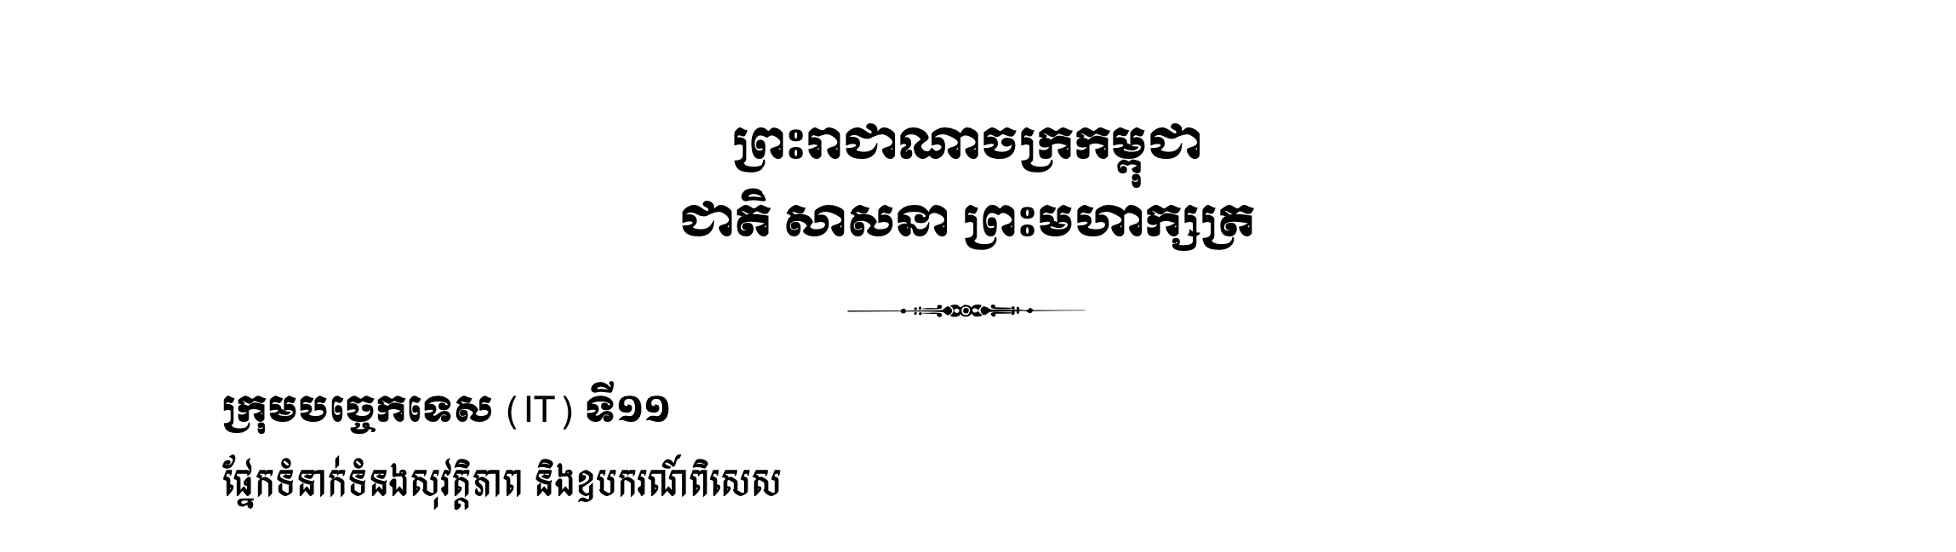
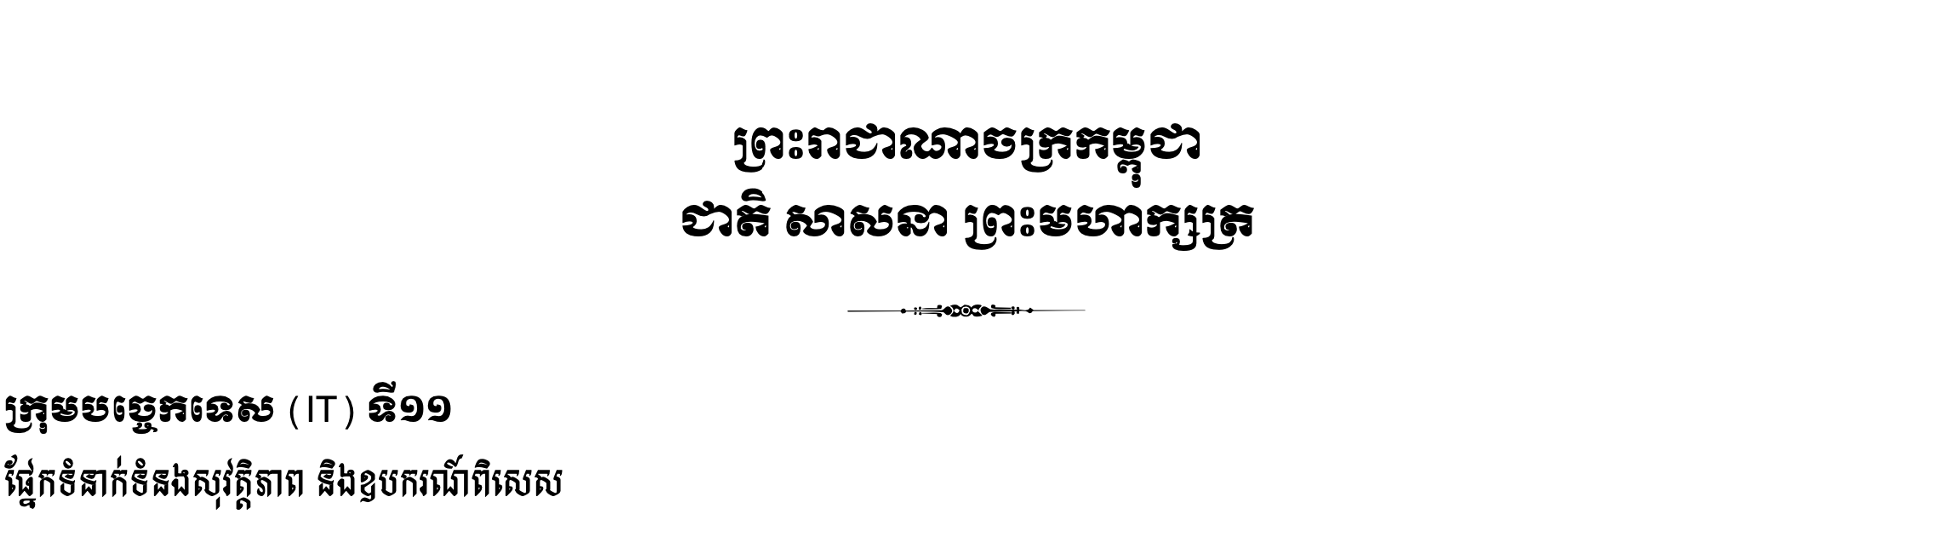
re-design letterhead

Changed region(s): [[0.0, 0.8315, 0.4054, 0.9239], [0.0, 0.6775, 0.343, 0.8007]]

diff --git a/resources/views/admin/formpdf/stockout.blade.php b/resources/views/admin/formpdf/stockout.blade.php
@@ -5,8 +5,8 @@
 
 @section('content')
     <div class="container" style="padding: 0 20px">
-        <div class="row" style="margin-bottom: 20px">
-            <img src="{{ asset('/image/leterhead/head.png') }}" alt="" width="100%">
+        <div class="row" style="margin-bottom: 20px; padding:0 20px;">
+            <img src="{{asset('/image/leterhead/head.png')}}" alt="" style="width: 100%; height: auto;">
         </div>
         <h5 class="battambang text-center mb-3" style="font-weight: bold;">លិខិតប្រគល់វិទ្យុទាក់ទង</h5>
         <h6 class="battambang text-center mb-5">({{$stockOut->type}})</h6>
@@ -24,7 +24,7 @@
             <tbody>
                 @foreach ($stockOut->products as $key => $item)
                     <tr>
-                        <td class="text-center">{{ $key + 1 }}</td>
+                        <td class="text-center">{{ sprintf('%02d', $key + 1) }}</td>
                         <td>{{ $item->product->PID }}</td>
                         <td>{{ $item->product->model->name }}</td>
                         <td>{{ $item->product->model->type }}</td>
@@ -50,7 +50,7 @@
                 <tbody>
                     @foreach ($stockOut->stockOutDetails as $key => $item)
                         <tr>
-                            <td class="text-center">{{ $key + 1 }}</td>
+                            <td class="text-center">{{ sprintf('%02d', $key + 1) }}</td>
                             <td>{{ $item->product->name }}</td>
                             <td>{{ $item->product->type }}</td>
                             <td>{{ $item->quantity }}</td>
@@ -61,20 +61,20 @@
             </table>
         @endif
 
-        <div class="row" style="margin: 50px 0 5px">
+        {{-- <div class="row" style="margin: 50px 0 5px">
             <div class="col-sm-12">
                 <p class="battambang text-right
             ">ធ្វើនៅ ក្រុងតាខ្មៅ ថ្ងៃ<span
                         style="padding-right: 150px"></span>ខែ<span style="padding-right: 90px"></span>ឆ្នាំ<span
                         style="padding-right: 80px"></span>ពស ២៥៦__</p>
             </div>
-        </div>
+        </div> --}}
 
-        <div class="row" style="margin: 0 0 50px">
+        <div class="row" style="margin: 50px 0 50px">
 
             <div class="col-sm-12">
                 <p class="battambang text-right
-            ">ត្រូវនឹងថ្ងៃទី<span
+            ">ក្រុងតាខ្មៅ ថ្ងៃទី<span
                         style="padding-right: 100px"></span>ខែ<span style="padding-right: 80px"></span>ឆ្នាំ២០២__</p>
             </div>
         </div>

diff --git a/resources/views/admin/formpdf/borrow.blade.php b/resources/views/admin/formpdf/borrow.blade.php
@@ -4,9 +4,9 @@
 @endsection
 
 @section('content')
-    <div class="container" style="padding: 0 20px">
-        <div class="row" style="margin-bottom: 20px">
-            <img src="{{asset('/image/leterhead/head.png')}}" alt="" width="100%">
+    <div class="container">
+        <div class="row" style="margin-bottom: 20px; padding:0 20px;">
+            <img src="{{asset('/image/leterhead/head.png')}}" alt="" style="width: 100%; height: auto;">
         </div>
         <h5 class="battambang text-center my-5" style="font-weight: bold;">លិខិតខ្ចីវិទ្យុទាក់ទង</h5>
 
@@ -23,7 +23,7 @@
             <tbody>
                 @foreach ($borrow->details as $key => $item)
                     <tr>
-                        <td class="text-center">{{ $key + 1 }}</td>
+                        <td class="text-center">{{ sprintf('%02d', $key + 1) }}</td>
                         <td>{{ $item->product->PID }}</td>
                         <td>{{ $item->product->model->name }}</td>
                         <td>{{ $item->product->model->type }}</td>
@@ -48,7 +48,7 @@
                 <tbody>
                     @foreach ($borrow->accessory as $key => $item)
                         <tr>
-                            <td class="text-center">{{ $key + 1 }}</td>
+                            <td class="text-center">{{ sprintf('%02d', $key + 1) }}</td>
                             <td>{{ $item->model->name }}</td>
                             <td>{{ $item->model->type }}</td>
                             <td>{{ $item->quantity }}</td>
@@ -59,20 +59,20 @@
             </table>
         @endif
 
-        <div class="row" style="margin: 50px 0 5px">
+        {{-- <div class="row" style="margin: 50px 0 5px">
             <div class="col-sm-12">
                 <p class="battambang text-right
             ">ធ្វើនៅ ក្រុងតាខ្មៅ ថ្ងៃ<span
                         style="padding-right: 150px"></span>ខែ<span style="padding-right: 90px"></span>ឆ្នាំ<span
                         style="padding-right: 80px"></span>ពស ២៥៦__</p>
             </div>
-        </div>
+        </div> --}}
 
-        <div class="row" style="margin: 0 0 50px">
+        <div class="row" style="margin: 50px 0 50px">
 
             <div class="col-sm-12">
                 <p class="battambang text-right
-            ">ត្រូវនឹងថ្ងៃទី<span
+            ">ក្រុងតាខ្មៅ ថ្ងៃទី<span
                         style="padding-right: 100px"></span>ខែ<span style="padding-right: 80px"></span>ឆ្នាំ២០២__</p>
             </div>
         </div>

diff --git a/resources/views/admin/layout/sidebar.blade.php b/resources/views/admin/layout/sidebar.blade.php
@@ -26,8 +26,6 @@
             <!-- sidebar menu -->
             <ul class="nav sidebar-inner" id="sidebar-menu">
 
-
-
                 <li class="has-sub {{ request()->is('dashboard*') ? 'active' : '' }}">
                     <a class="sidenav-item-link" href="/dashboard">
                         <i class="fa-solid fa-chart-simple"></i>
